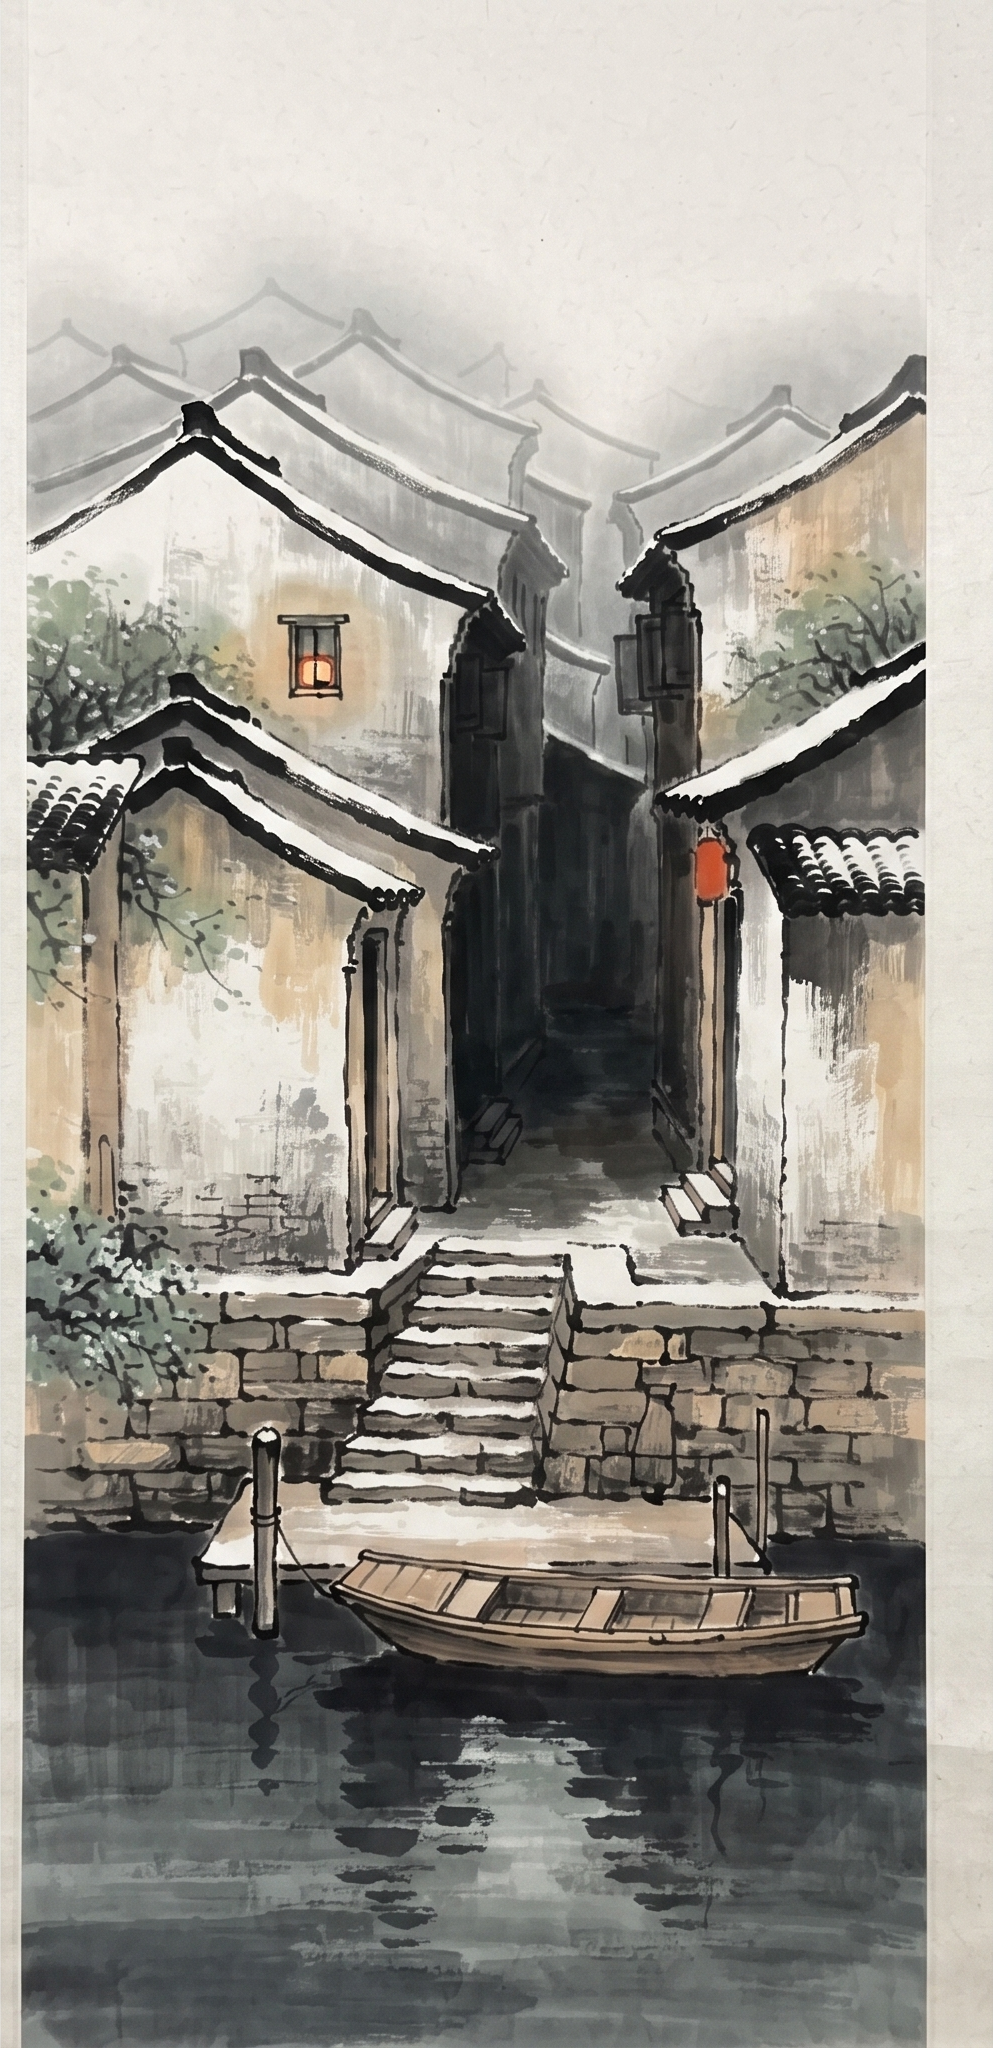
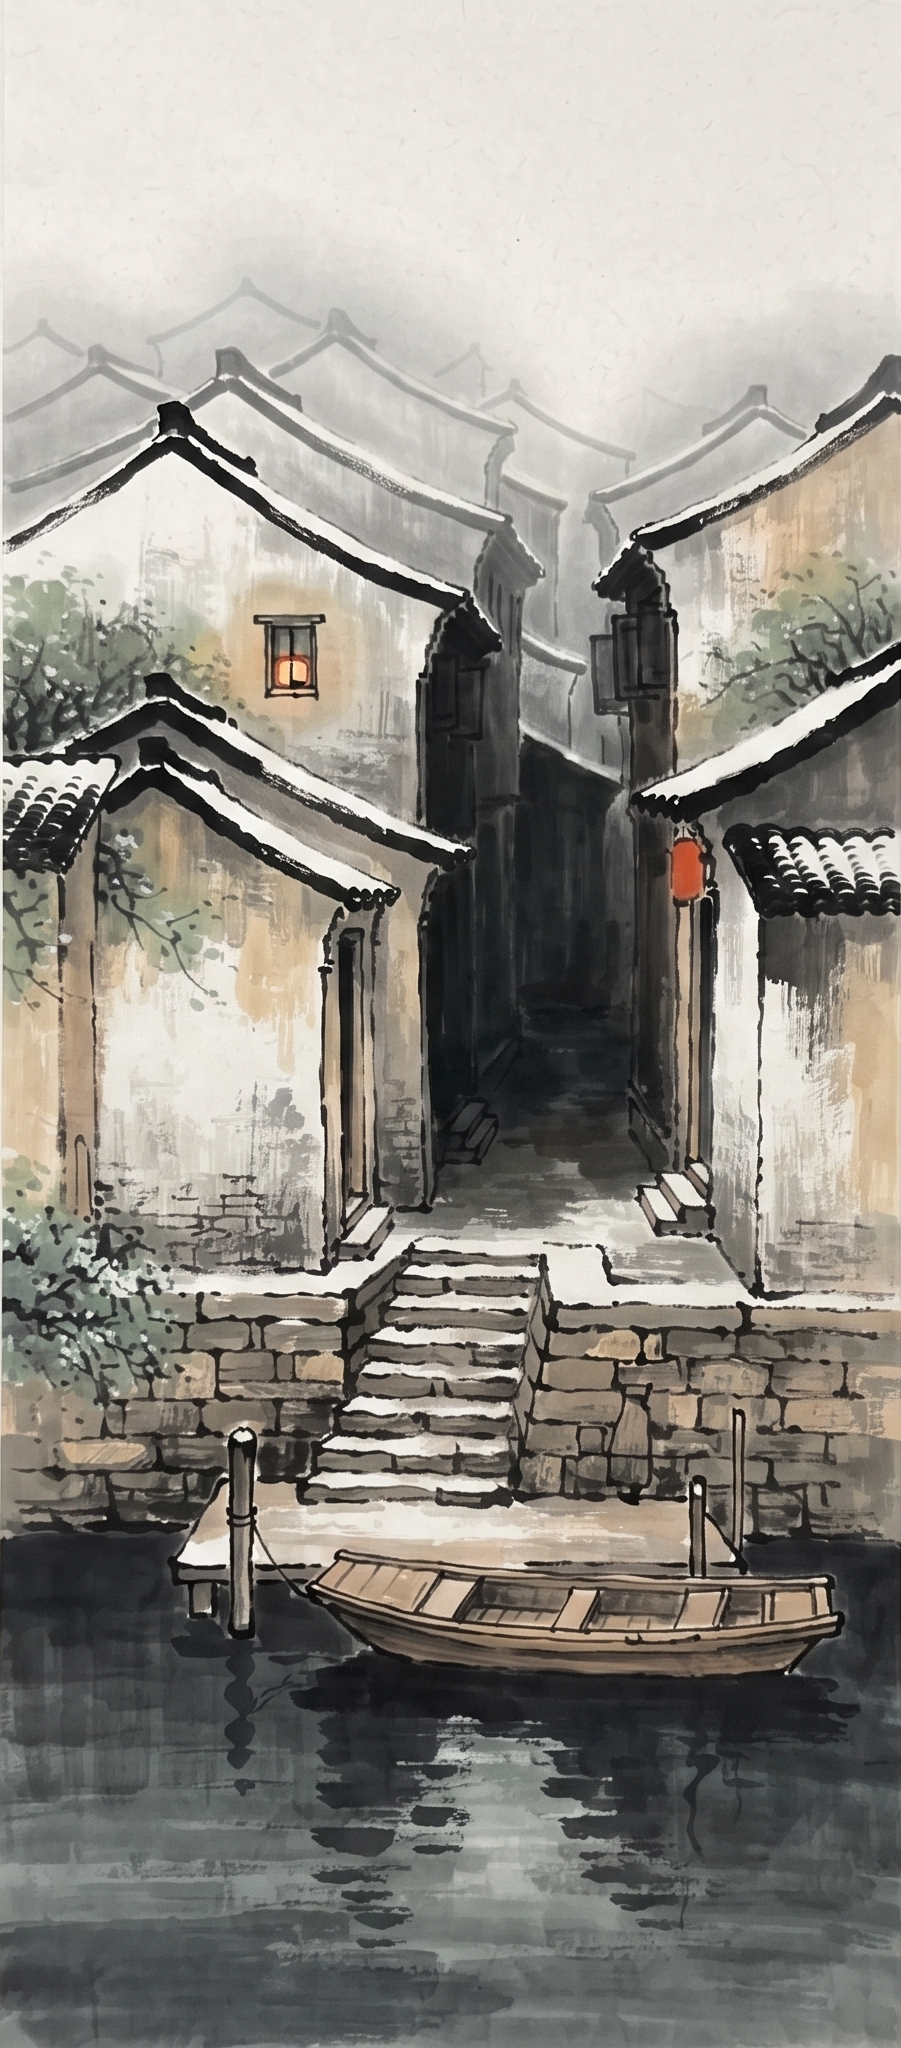
Forward and back: the depth axis, discrete (b41)
Simon's verdict on the proof: "that's more like it - this is more what
I remember and want." Two follow-ups, both done:

THE WHITE STRIPE on the mooring screen was a sliver of the painting's
own scroll mount my column-crop kept; edges are now trimmed by a
percentile threshold and all three screens are clean.

FORWARD AND BACK: swipe up steps INTO the town and down steps back
toward the water - the depth verb of 108, discrete. The phase gains an
axis: vertical steps rise or sink instead of sliding. On the bridge,
up enters the alley painting she was just looking at; in the alley,
down returns. Edges without exits still answer with a light haptic.

Also recovered from a near-loss: the proof commit's push failed on a
transient 408 and the cleanup deleted the local branch - with Downloads
already cleared, the reflog held the only copy of the screens. Restored
from the dangling commit and pushed.

diff --git a/src/screens/Town.tsx b/src/screens/Town.tsx
@@ -38,23 +38,34 @@ import { PAPER, SOOT } from '../palette';
  * after the verdict.
  */
 
-const SCREENS = [
+type Exit = number | null;
+interface Node {
+  id: string;
+  src: number;
+  /** left/right walk the bank; up steps INTO the town, down steps back
+   *  toward the water - the depth verb of 108, made discrete. */
+  exits: { left: Exit; right: Exit; up: Exit; down: Exit };
+}
+
+const SCREENS: Node[] = [
   {
     id: 'mooring',
     src: require('../../assets/screens/mooring.png'),
-    exits: { left: null as number | null, right: 1 },
+    exits: { left: null, right: 1, up: null, down: null },
   },
   {
     id: 'bridge',
     src: require('../../assets/screens/bridge.png'),
-    exits: { left: 0 as number | null, right: 2 as number | null },
+    exits: { left: 0, right: null, up: 2, down: null },
   },
   {
+    // The dark passage in this painting is where 'up' leads: she steps
+    // INTO the picture she was looking at.
     id: 'alley',
     src: require('../../assets/screens/alley.png'),
-    exits: { left: 1 as number | null, right: null },
+    exits: { left: null, right: null, up: null, down: 1 },
   },
-] as const;
+];
 
 /** The phase: leaving drifts a quarter-screen and thins; arriving
  *  comes the last sixth of the way and solidifies. Both directions on
@@ -62,7 +73,7 @@ const SCREENS = [
 const PHASE_MS = 640;
 
 function ScreenLayer({
-  idx, src, curIdx, fromIdx, prog, dir, width, height,
+  idx, src, curIdx, fromIdx, prog, dir, axis, width, height,
 }: {
   idx: number;
   src: number;
@@ -70,6 +81,8 @@ function ScreenLayer({
   fromIdx: SharedValue<number>;
   prog: SharedValue<number>;
   dir: SharedValue<number>;
+  /** 0 = horizontal phase, 1 = vertical (the depth step). */
+  axis: SharedValue<number>;
   width: number;
   height: number;
 }) {
@@ -85,13 +98,13 @@ function ScreenLayer({
     : null;
 
   const transform = useDerivedValue(() => {
-    let dx = 0;
+    let d = 0;
     if (idx === curIdx.value && fromIdx.value >= 0) {
-      dx = dir.value * (1 - prog.value) * width * 0.16;
+      d = dir.value * (1 - prog.value) * width * 0.16;
     } else if (idx === fromIdx.value) {
-      dx = -dir.value * prog.value * width * 0.28;
+      d = -dir.value * prog.value * width * 0.28;
     }
-    return [{ translateX: dx }];
+    return axis.value === 1 ? [{ translateY: d }] : [{ translateX: d }];
   }, [idx, width]);
 
   const opacity = useDerivedValue(() => {
@@ -128,6 +141,7 @@ const TownCanvas = memo(function TownCanvas({
     fromIdx: SharedValue<number>;
     prog: SharedValue<number>;
     dir: SharedValue<number>;
+    axis: SharedValue<number>;
   };
 }) {
   return (
@@ -142,6 +156,7 @@ const TownCanvas = memo(function TownCanvas({
           fromIdx={shared.fromIdx}
           prog={shared.prog}
           dir={shared.dir}
+          axis={shared.axis}
           width={width}
           height={height}
         />
@@ -156,6 +171,7 @@ export function Town() {
   const fromIdx = useSharedValue(-1);
   const prog = useSharedValue(1);
   const dir = useSharedValue(1);
+  const axis = useSharedValue(0);
   const [, setNode] = useState(0);
   const busy = useRef(false);
 
@@ -164,10 +180,10 @@ export function Town() {
   }, []);
 
   const move = useCallback(
-    (toRight: boolean) => {
+    (way: 'left' | 'right' | 'up' | 'down') => {
       if (busy.current) return;
       const cur = SCREENS[curIdx.value];
-      const to = toRight ? cur.exits.right : cur.exits.left;
+      const to = cur.exits[way];
       if (to === null) {
         Haptics.impactAsync(Haptics.ImpactFeedbackStyle.Light).catch(() => {});
         return;
@@ -176,7 +192,10 @@ export function Town() {
       Haptics.selectionAsync().catch(() => {});
       fromIdx.value = curIdx.value;
       curIdx.value = to;
-      dir.value = toRight ? 1 : -1;
+      // Swiping up moves INTO the picture, so the leaving screen rises
+      // away; the arriving one comes up from beneath. Down mirrors.
+      axis.value = way === 'left' || way === 'right' ? 0 : 1;
+      dir.value = way === 'right' || way === 'down' ? 1 : -1;
       setNode(to);
       prog.value = 0;
       prog.value = withTiming(
@@ -201,8 +220,14 @@ export function Town() {
       .minDistance(24)
       .onEnd((e) => {
         'worklet';
-        if (Math.abs(e.translationX) < 48) return;
-        runOnJS(move)(e.translationX < 0);
+        const ax = Math.abs(e.translationX);
+        const ay = Math.abs(e.translationY);
+        if (Math.max(ax, ay) < 48) return;
+        if (ay > ax * 1.2) {
+          runOnJS(move)(e.translationY < 0 ? 'up' : 'down');
+        } else if (ax > ay * 1.2) {
+          runOnJS(move)(e.translationX < 0 ? 'right' : 'left');
+        }
       }),
   );
 
@@ -213,11 +238,11 @@ export function Town() {
           <TownCanvas
             width={width}
             height={height}
-            shared={{ curIdx, fromIdx, prog, dir }}
+            shared={{ curIdx, fromIdx, prog, dir, axis }}
           />
         </View>
       </GestureDetector>
-      <Text style={styles.stamp}>b40</Text>
+      <Text style={styles.stamp}>b41</Text>
     </GestureHandlerRootView>
   );
 }
